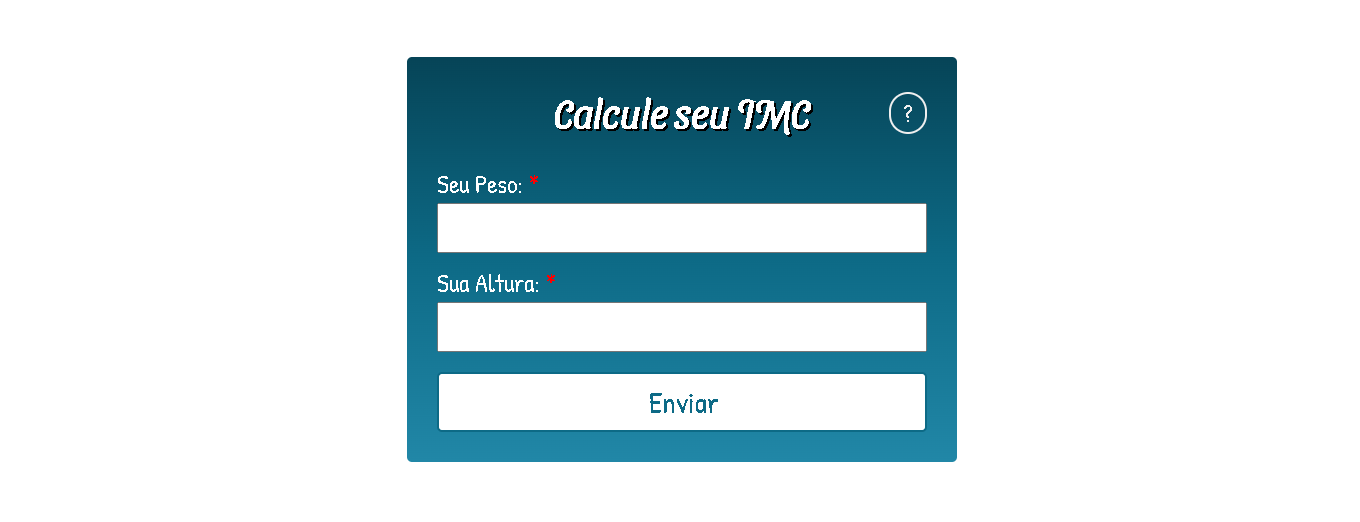
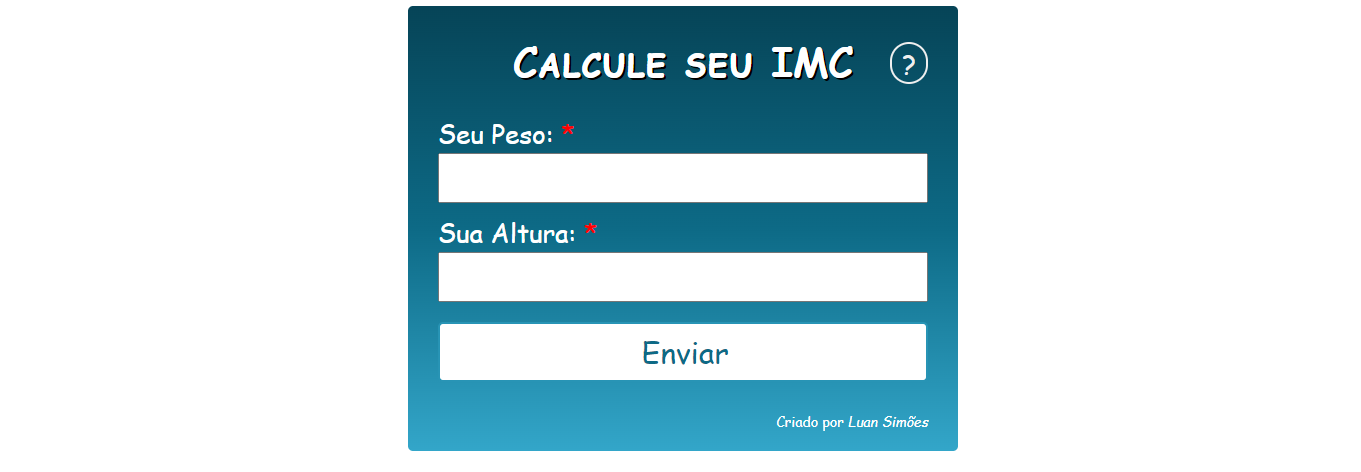
att

Changed region(s): [[0.2779, 0.0, 0.7103, 0.5932], [0.3088, 0.6229, 0.6794, 0.8305], [0.2779, 0.8602, 0.7103, 0.9788]]

diff --git a/exercicios/IMC/assets/css/style.css b/exercicios/IMC/assets/css/style.css
@@ -34,7 +34,7 @@ body{
 
 .container{
   width: 550px;
-  background-image: linear-gradient(to bottom, #064457, var(--corpadrao), #2187a7) ;
+  background-image: linear-gradient(to bottom, #064457, var(--corpadrao), #33a6c9) ;
   padding: 30px;
   padding-top: 2px;
   padding-bottom: 10px;
@@ -55,7 +55,7 @@ body{
   justify-content: space-between;
   border-radius: 5px;
   padding: 5px;
-  background-image: linear-gradient(to bottom, #064457, var(--corpadrao), #2187a7) ;
+  background-color: #2a91b1;
   position: absolute;
   z-index: 1;
   right: -40%;
@@ -63,6 +63,7 @@ body{
   width: 370px;
   font-size: 20px;
   line-height: 25px;
+  box-shadow: 2px 2px 5px rgba(0, 0, 0, 0.753);
 }
 
 form input, form label{
@@ -86,7 +87,7 @@ form input:focus{
 
 .btn{
   margin-top: 20px;
-  border: 2px solid var(--corpadrao);
+  border: 2px solid #2894B5;
   height: 60px;
   background-color: white;
   cursor: pointer;
@@ -99,8 +100,10 @@ form input:focus{
 }
 
 .btn:hover{
-  background-color: var(--corpadrao);
+  border: none;
+  background-color: #2894B5;
   color: white;
+  box-shadow: 0px 0px 3px rgba(0, 0, 0, 0.712);
 }
 
 .star{
@@ -164,6 +167,7 @@ form input:focus{
   color: rgb(245, 0, 0);
   font-size: 20px;
   font-style: italic;
+  text-shadow: 1px 1px rgba(0, 0, 0, 0.63);
 }
 
 .none{
@@ -185,6 +189,8 @@ form input:focus{
   text-align: center;
   cursor: pointer;
   height: 42px;
+  animation: infom 2.5s alternate-reverse;
+  animation-delay: 5s;
 }
 
 .info:hover{
@@ -194,6 +200,10 @@ form input:focus{
 
 .open{
   animation: open 800ms;
+}
+
+.girar{
+  animation: girar 1s;
 }
 
 @keyframes open{
@@ -207,6 +217,51 @@ form input:focus{
   }
 }
 
+@keyframes girar{
+  0%{
+    transform: rotateY(360deg);
+  }
+}
+
+@keyframes infom{
+
+  25%{
+    transform: rotate(0deg);
+    animation-delay: 5s;
+  }
+
+  50%{
+    transform: rotate(20deg);
+    animation-delay: 5s;
+  }
+
+  75%{
+     transform: rotate(-30deg);
+  }
+
+  100%{
+    transform: rotate(0deg);
+    animation-delay: 5s;
+  }
+}
+
 .shadow{
   text-shadow: 1px 1px black;
+}
+
+.by{
+  text-align: right;
+  margin: 0;
+  padding: 0;
+  font-size: 14px;
+}
+
+.by a{
+  color: white;
+  font-style: italic;
+  text-decoration: none;
+}
+
+.by a:hover{
+  text-decoration: underline;
 }

diff --git a/exercicios/IMC/assets/js/main.js b/exercicios/IMC/assets/js/main.js
@@ -11,24 +11,28 @@ IMC.prototype.click = function () {
   let contador = 0;
   this.info = document.querySelector('.info');
   this.info.setAttribute('title', 'Tabela IMC');
+
   document.addEventListener('click', e =>{
     this.tImc = document.querySelector('.flex');
     const el = e.target;
     if(el.classList.contains('info')){
       if(contador < 1){
         this.tImc.classList.add('open');
+        this.info.classList.add('girar');
         this.tImc.classList.remove('none');
         contador ++;
-      }
-      if(contador > 1){
+      }else if(contador >= 1){
         this.tImc.classList.add('none');
+        this.info.classList.remove('girar');
         contador --;
       }
     }else if(el.classList.contains('close')){
       this.tImc.classList.add('none');
+      this.info.classList.remove('girar');
       contador --;
     }else{
       this.tImc.classList.add('none');
+      this.info.classList.remove('girar');
       contador --;
     }
   });
@@ -95,7 +99,7 @@ IMC.prototype.setResultado = function (resultadoIMC, imcPuro) {
   p.innerHTML += `Peso ideal, parabéns!`;
   }else if(resultadoIMC >= 25 && resultadoIMC <= 29.9){
     p.classList.add('aa');
-    p.innerHTML += `Você está acima do peso, cuidado!`;
+    p.innerHTML += `Você está acima do peso!`;
   }else if(resultadoIMC >= 30 && resultadoIMC <= 34.9 ){
     p.classList.add('o1');
     p.innerHTML += `Obesidade grau 1, cuidado!`;
@@ -109,6 +113,6 @@ IMC.prototype.setResultado = function (resultadoIMC, imcPuro) {
     p.classList.add('aa');
     p.innerHTML += `Algo deu errado! Confira os dados colocados.`;
   }
-}
+};
 
 const pImc = new IMC();

diff --git a/exercicios/IMC/index.html b/exercicios/IMC/index.html
@@ -29,9 +29,9 @@
         <p>	&gt;</p>
       </div>
       <div>
-        <p style="color: rgb(255, 40, 40);">Abaixo do peso</p>
-        <p style="color: rgb(0, 255, 0)">Peso Ideal</p>
-        <p style="color: rgb(255, 40, 40)">Sobrepeso</p>
+        <p class="shadow" style="color: rgb(255, 40, 40);">Abaixo do peso</p>
+        <p class="shadow" style="color: rgb(0, 255, 0)">Peso Ideal</p>
+        <p class="shadow" style="color: rgb(255, 40, 40)">Sobrepeso</p>
         <p style="background-color: rgb(255, 40, 40); color: white;">Obesidade grau 1</p>
         <p style="background-color: darkred; color: white;">Obesidade grau 2</p>
         <p style="background-color: black; color: white;">Obesidade grau 3</p>
@@ -50,6 +50,7 @@
       
         <div class="resultado">
         </div>
+        <p class="by">Criado por <a href="https://github.com/SyLu4N/JsUdemy">Luan Simões</a></p>
       </form>
       
     </section>
